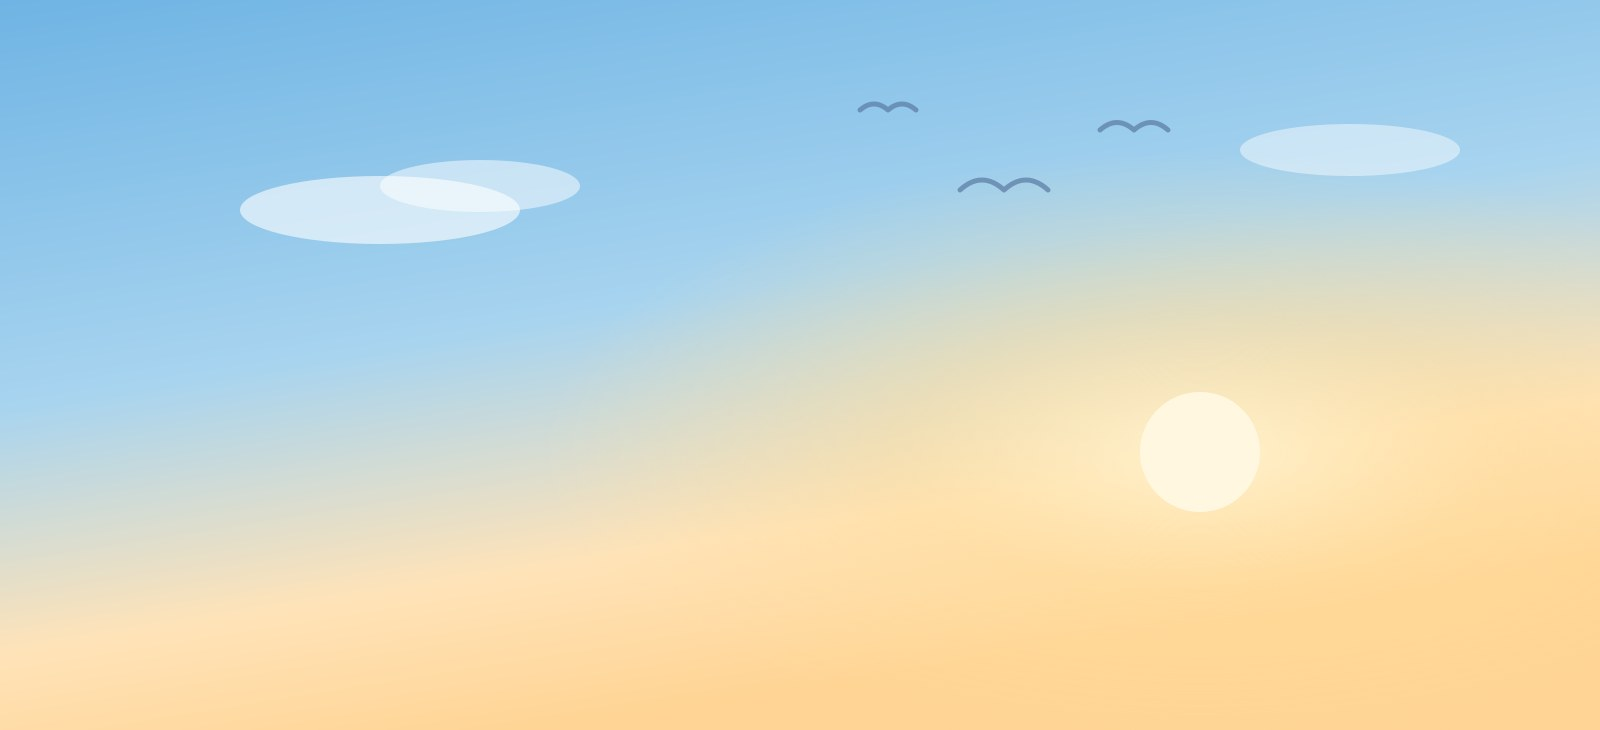
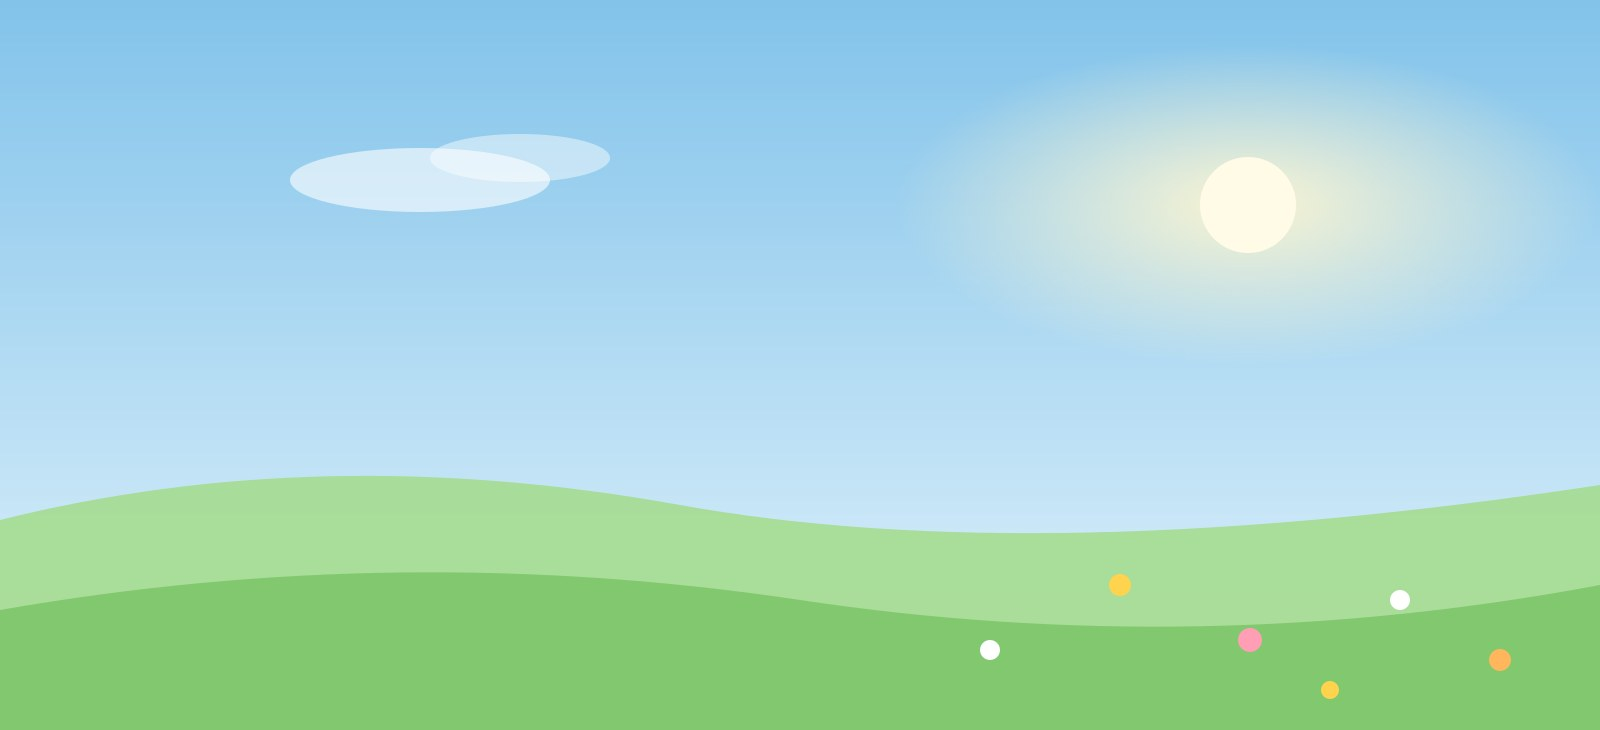
말씀카드 배경 I(봄 들꽃 언덕) 적용 + 어두운 덮개 완화
배경이 뿌옇게 보이던 원인: 카드 전체에 깔리던 어두운 그라데이션.
위쪽은 투명하게 두고 글씨가 앉는 아래쪽만 어둡게 해
밝은 배경의 산뜻함이 그대로 보이게 했다. 말씀 화면도 동일.

Claude-Session: https://claude.ai/code/session_01VDsoJVjkmq7yGfS2oWFvuq

diff --git a/app/(tabs)/index.tsx b/app/(tabs)/index.tsx
@@ -162,7 +162,12 @@ export default function HomeScreen() {
             </PhotoSlot>
           ) : (
             <PhotoSlot uri={verse.imageUrl ?? '/verse-bg.jpg'} tone="deep" style={styles.hero}>
-              <LinearGradient colors={[...scrim]} style={StyleSheet.absoluteFill} />
+              {/* 밝은 배경이 살도록 위쪽은 거의 투명, 글씨가 앉는 아래쪽만 어둡게 */}
+              <LinearGradient
+                colors={['rgba(12,28,54,0)', 'rgba(12,28,54,0.06)', 'rgba(12,28,54,0.55)']}
+                locations={[0, 0.45, 1]}
+                style={StyleSheet.absoluteFill}
+              />
               <View style={styles.heroTopRow}>
                 <View style={styles.heroBadge}>
                   <Text style={styles.heroBadgeText}>

diff --git a/app/(tabs)/word.tsx b/app/(tabs)/word.tsx
@@ -37,8 +37,10 @@ export default function WordScreen() {
 
       {/* 히어로 */}
       <PhotoSlot uri={verse.imageUrl ?? '/verse-bg.jpg'} tone="deep" style={styles.hero}>
+        {/* 밝은 배경이 살도록 위쪽은 투명, 글씨가 앉는 아래쪽만 어둡게 */}
         <LinearGradient
-          colors={['rgba(18,38,68,0.05)', 'rgba(12,28,54,0.62)']}
+          colors={['rgba(12,28,54,0)', 'rgba(12,28,54,0.5)']}
+          locations={[0.35, 1]}
           style={StyleSheet.absoluteFill}
         />
         <View style={styles.heroBottom}>
